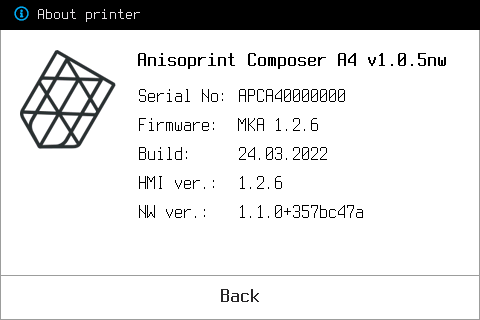
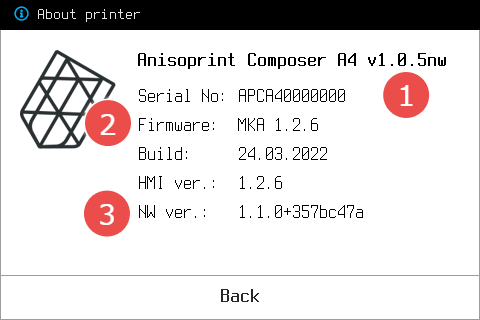
[Change] Image about printer

Changed region(s): [[0.1562, 0.5938, 0.2812, 0.75], [0.1562, 0.3125, 0.2812, 0.4688], [0.7812, 0.2188, 0.9062, 0.375]]

diff --git a/docs/aura-connect/before-you-start/index.md b/docs/aura-connect/before-you-start/index.md
@@ -49,18 +49,16 @@ We **strongly encourage** you to familiarize yourself with the full list of pote
 ## Compatible hardware and printer firmware
 
 Before connecting your printer to Aura.Connect, please ensure that it meets the following requirements:
-* The machine has network capabilities (the machine version contains "nw", e.g. "1.0.5nw")
-* The machine firmware version is 1.2.6 or later 
-* The machine Network bridge software version is 1.1.1 or later (the update is finished on the printer restart, so please restart your printer before checking the version)
+1. The machine has network capabilities (the machine version contains "nw", e.g. "1.0.5nw")
+2. The machine firmware version is 1.2.6 or later 
+3. The machine Network bridge software version is 1.1.1 or later (the update is finished on the printer restart, so please restart your printer before checking the version)
+
+![About printer](./media/about-printer.png)
 
 You can check everything on the machine on the About printer screen, which is located in the Maintenance menu.
 
 The latest firmware can be downloaded [here](https://support.anisoprint.com/composer/firmware-downloads/). The Network bridge software is updated automatically if a printer is connected to the Internet, please refer to the [Manual](https://support.anisoprint.com/composer/manual/#network-bridge-software-updating) for more details. 
 
-
-
-![about printer](./media/about-printer.png)
-
 ## Aura.Connect specific terminology
 
-If, while reading the documentation, you're having trouble understanding the terminology, refer to [Aura.Connect terminology](/aura-connect/terminology/)
+If, while reading the documentation, you're having troubles understanding the terminology, refer to [Aura.Connect terminology](/aura-connect/terminology/)
